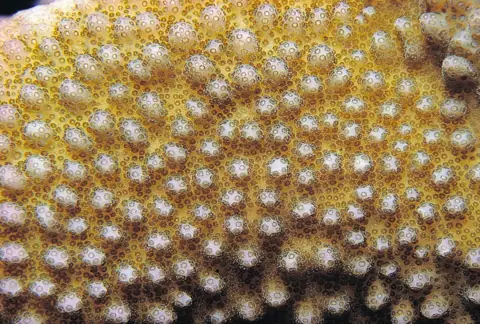
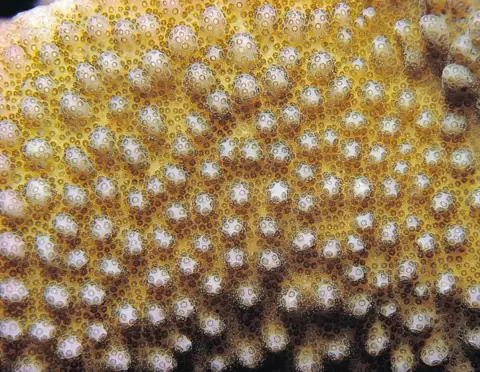
IMR lecture photos: undo the slide stretch on three pictures
imrl-p8_i6, imrl-p9_i7 and imrl-p45_i3 are about 15 % wider on their
slide than the original; Pierre (2026-11-05, Q63): the stretch was only
for the slides. Each is cut again from its PowerPoint original
(image27.png, image33.png, image143.png) over the same region, at the
original's true proportions, its four sizes written with photos.save()
under the same names, and its ar updated in data.json.

Claude-Session: https://claude.ai/code/session_015aneYCoGrFwy7FmGiYGjF8

diff --git a/docs/ARCHITECTURE.md b/docs/ARCHITECTURE.md
@@ -221,7 +221,7 @@ Per genus and view, from field photos + IMR lecture photos (`data.json` `course`
 - **Served from Cloudflare R2** (Photos out of the repo, step 2, 2026-11-03): every URL of a site photo is `PHOTO_BASE` + `img/<f>…webp`, `PHOTO_BASE` in `core.js` (`https://pub-934250f83b884a4f890497f2027ce251.r2.dev/`, the bucket `tools/r2_sync.sh` mirrors `img/` to, same paths, `Cache-Control: public, max-age=604800`). It is the one switch: `''` sends the app, the admin and the Coral ID Key to the site's `img/` for the photos with no online original and to their online original for the others, crops drawn (`AWAY` true from the start in `app.js` and `admin.js`: since step 2 the site has no copy of those). Built by `app.js` `photoUrl()` / `loc()` (also `srcset`, `thumb`, Home's ReefCloud art, the Coral ID Key's book photos) and `admin.js` `img()`; `ownPhoto()` tells a site photo (on R2 or the site) from an iNaturalist one, `resized()` keeps the base. **Fallback** (Photos out of the repo, step 1 of Pierre's rule of 2026-11-05): an `<img>` whose R2 file fails is asked from R2 once more 800 ms later (`core.js` `photoRetry`, a passing error; under the service worker the worker does that retry), then moves to the photo's **online original** when it has one (`src` in `data.json` / `cand.json` / `fish-photos.json`: iNaturalist, Pierre's own iNaturalist photos, FishBase), at a light size, never the original file: iNaturalist `small` (240 px) for our 240 px file, `medium` (500 px) for 480 px, `large` (1024 px) for 960 and 1600 px, FishBase's one file as it is (`core.js` `photoOnline`); a photo with none (IMR lecture photos, Coral Finder book scans, page art) moves to the same file on the site's `img/` (`photoFallback` rewrites `src`, `srcset`, `data-lo` and the game backdrop's inline style through `photoAway`, which finds the photo's record by the file name in the address, `photoFileOf`, in an index of every photo record, `photoIndex`; `photoFail` in `app.js`, a capture listener on `document` before every other; the admin has the same). Without a service worker, `R2` then turns false and `AWAY` true for the rest of the visit, so the next photos go there directly (`loc()`, `resized()`; the quiz preloads, which are no page elements, do the same in `pump()`). Under the service worker both stay as they are: the worker keeps photos offline under their R2 address and fails at once while R2 is out, each photo falls back on its own, and its 480 px step (`data-lo`) and backdrop stay on R2, where an offline copy may be. The usual retries (below) then apply to the new address. **Crops**: the site's files have Pierre's crop baked in (`cr`, `tools/fetch_approved.py`), the original has not: once a photo falls back, every `<img>` added or given a new `src` is watched (`cropWatch`, a `MutationObserver`, only from the first fallback on) and a cropped photo shown from its original gets the crop drawn with `object-view-box` (`core.js` `photoCropOf`, as the admin's crop preview); a browser without `object-view-box` (Safari, Firefox in 2026) shows the whole photo. The CSP of `index.html` allows the originals' hosts (`tests/csp.test.js` checks every host in the data).
 - **Where the files are** (Photos out of the repo, step 2 of Pierre's rule of 2026-11-05): `img/` in git keeps only the photos with no other backup: 554 Coral Finder book scans, 120 IMR lecture photos, the page art and 3 old candidate files that only `curation.json` names (678 photos, 2710 files, ~110 MB on 2026-11-05). Every downloaded photo with an online original (`src` and no `r`: `tools/photos.py` `online()`) lives **on R2 only**, its fallback being that original: 1387 photos, 5548 files, ~502 MB on 2026-11-05 (1004 candidates Pierre added, 304 site photos of slate genera, 79 of Millepora and the bonus genera; 241 of them Pierre's own), removed from `img/` in one commit once each file was found on R2 byte for byte (`tools/r2_move.py`; R2's ETag is the file's MD5). What keeps it so: `tools/fetch_approved.py` writes the photos it downloads to `r2-upload/` (gitignored, never `img/`) and sets their `ar`, and `approved-photos.yml` uploads that folder (`tools/r2_sync.sh r2-upload`) before it commits `data.json`, so `data.json` never marks downloaded a photo R2 lacks; `tools/r2_sync.sh` copies and never deletes from the bucket (`rclone copy`: a sync from `img/` would wipe the R2-only photos), then checks the bucket holds the four files of every R2-only photo (`photos.py --r2-list`); `tools/photos.py --check` (CI) fails on a photo with an online original back in `img/` and on a missing file of a photo with none; a tool that reads a photo's pixels opens `photos.path(f, size)` (the file in `img/`, else a copy from R2 kept in `tools/.cache/r2/`: `photo_quality.py`, `photo_metrics.py`, `find_dups.py`, `apply_multi.py`; `judging_manifest.py` gives the R2 address); the smokes answer R2 and iNaturalist from the local files, an R2-only photo with a stand-in of the same size (`tests/photostub.js`). The old copies stay in `.git` until step 3, the history rewrite (ROADMAP, HANDOVER "Photos out of the repo, step 3").
 - WebP, four sizes on the long side: 1600 px `img/<f>.webp`, 960 px `img/<f>-m.webp`, 480 px `img/<f>-s.webp`, 240 px `img/<f>-t.webp` (`tools/photos.py`: `save()` for every tool that writes photos, `python3 tools/photos.py` fills missing smaller files, `--check` in CI). In `img/` 2710 files, ~110 MB, and on R2 only the 5548 files of the photos with an online original, ~502 MB (2026-11-05, above; on 2026-11-01 the 960 px files added 82 MB, mean 69 KB, the 240 px ones 12 MB, mean 10 KB; 1600 px mean 141 KB, 480 px 31 KB). No Git LFS.
-- Sources: IMR Lecture 6 deck (internal use at IMR only; cut from the full-resolution PowerPoint media, `2026_L6_CoralID/ppt/media` on Pierre's Drive (HANDOVER "External resources"), never from the Google Slides copy, compressed on purpose. Each file keeps the framing the slide shows; 36 photos first cut from the Slides copy, as small as 281 px, were re-cut from their originals on 2026-11-05 (slide → media through `ppt/slides/_rels/slideN.xml.rels`, then matched by content), the others already had the original's resolution. Many originals are browser screenshots; three pictures are stretched on their slide, about 15 % wider than the original (`imrl-p8_i6`, `imrl-p9_i7`, `imrl-p45_i3`), and their files keep that stretch), Pierre's iNaturalist observations, other iNaturalist observers (CC0, CC BY or CC BY-NC, never share-alike since 2026-11-05; Research Grade, a genus-level community ID, or, in the Philippines only, a current identification by the trusted expert `thamnasteroid` at the genus or below that no other current identification disagrees with: `tools/fetch_local.py` `EXPERTS`, `expert_ok`, Pierre 2026-11-05: by far the top identifier of stony corals in the Philippines, trust his identification; an identification on the same line of descent agrees, so an observer's coarse "Stony corals" refined by him to the genus is accepted (iNaturalist then has no genus-level community taxon), while another genus or a taxon off that line refuses; withdrawn identifications do not count, an expert identification above the genus is refused; abroad Research Grade only and the presence rule), Coral Finder 2022 book crops (copyright R. Kelley/BYOGUIDES, candidates only, never in games).
+- Sources: IMR Lecture 6 deck (internal use at IMR only; cut from the full-resolution PowerPoint media, `2026_L6_CoralID/ppt/media` on Pierre's Drive (HANDOVER "External resources"), never from the Google Slides copy, compressed on purpose. Each file keeps the framing the slide shows; 36 photos first cut from the Slides copy, as small as 281 px, were re-cut from their originals on 2026-11-05 (slide → media through `ppt/slides/_rels/slideN.xml.rels`, then matched by content), the others already had the original's resolution. Many originals are browser screenshots; three pictures are stretched on their slide, about 15 % wider than the original (`imrl-p8_i6`, `imrl-p9_i7`, `imrl-p45_i3`): their files take the slide's region at the original's true proportions, without the stretch (Pierre, 2026-11-05, Q63: the stretch was only for the slides)), Pierre's iNaturalist observations, other iNaturalist observers (CC0, CC BY or CC BY-NC, never share-alike since 2026-11-05; Research Grade, a genus-level community ID, or, in the Philippines only, a current identification by the trusted expert `thamnasteroid` at the genus or below that no other current identification disagrees with: `tools/fetch_local.py` `EXPERTS`, `expert_ok`, Pierre 2026-11-05: by far the top identifier of stony corals in the Philippines, trust his identification; an identification on the same line of descent agrees, so an observer's coarse "Stony corals" refined by him to the genus is accepted (iNaturalist then has no genus-level community taxon), while another genus or a taxon off that line refuses; withdrawn identifications do not count, an expert identification above the genus is refused; abroad Research Grade only and the presence rule), Coral Finder 2022 book crops (copyright R. Kelley/BYOGUIDES, candidates only, never in games).
 - New candidates are not stored: they are shown from iNaturalist until Pierre adds them. `.github/workflows/approved-photos.yml` runs on every `curation.json` push: `tools/fetch_approved.py` downloads added photos (applying Pierre's crop) into `r2-upload/`, uploaded to R2 before the commit (they have an online original, so they never go to `img/`: "Where the files are" above), `tools/fetch_local.py` refills candidate lists (caps per genus, counted in observations waiting: 15 near Dauin, 6 elsewhere in the Philippines while a genus has fewer than 15 Dauin photos; a **Key-only genus** (Pierre, 2026-11-03) keeps at most as many observations waiting, over all sources, as the colonies it still lacks (`key_need`: `CAP.sheet` = 6 per Colony and Close-up view, Close-up = macro for a 2-level genus, minus the distinct observations of its curated photos there: counted as the admin's `gamePool` counts them, one rule mirrored in `colonies()`: data.json views with curation `move`, `hide`, `add` and `out`, views as `viewOf` (medium joins Colony only for a genus switched to 2 levels by curation), no sheet-only (`use: 'ref'`), extra, multi-coral, book or excluded photo, and in Colony no photo whose growth form is not visible unless the genus has one form; `tests/pages.smoke.js` checks the admin and the script agree on the real data, genus by genus; Needs ID colonies count, as in the admin's `gamePool` for a genus that is not played; a waiting candidate counts only when its guessed view is one of those two and still lacks colonies, as the admin's swiper shows it, so a full view's candidates never hold the room another view needs), and one that lacks none is not refilled (no iNaturalist request); `--plan` prints offline, as JSON, what a run would refill (`tests/genera.test.js`); each observation brings all its photos (up to 12, a guard only) since 2026-11-01: Pierre takes at least the colony, a closer view and a macro, a game question shows the views of one colony, and the order of an observation's photos says nothing about their zoom, so sorting by view, quality and near-duplicates is the judging pass's job; before, 2 per observation, its first and last), then commits `data.json` + `cand.json` (+ `img/`, only for a missing smaller size of a photo git keeps).
 - `tools/excluded.py` makes every import skip excluded photos (by file name and iNat photo id); `drop_excluded` (run by `tools/fetch_local.py` after each publish) takes them out of every photo list, except a candidate the auto-sort excluded (`exclude[f] = 'auto'`), whose entry stays in `cand.json` so that its Undo can bring it back (Codex review #400); excluded, it is neither shown nor counted as waiting.
 
